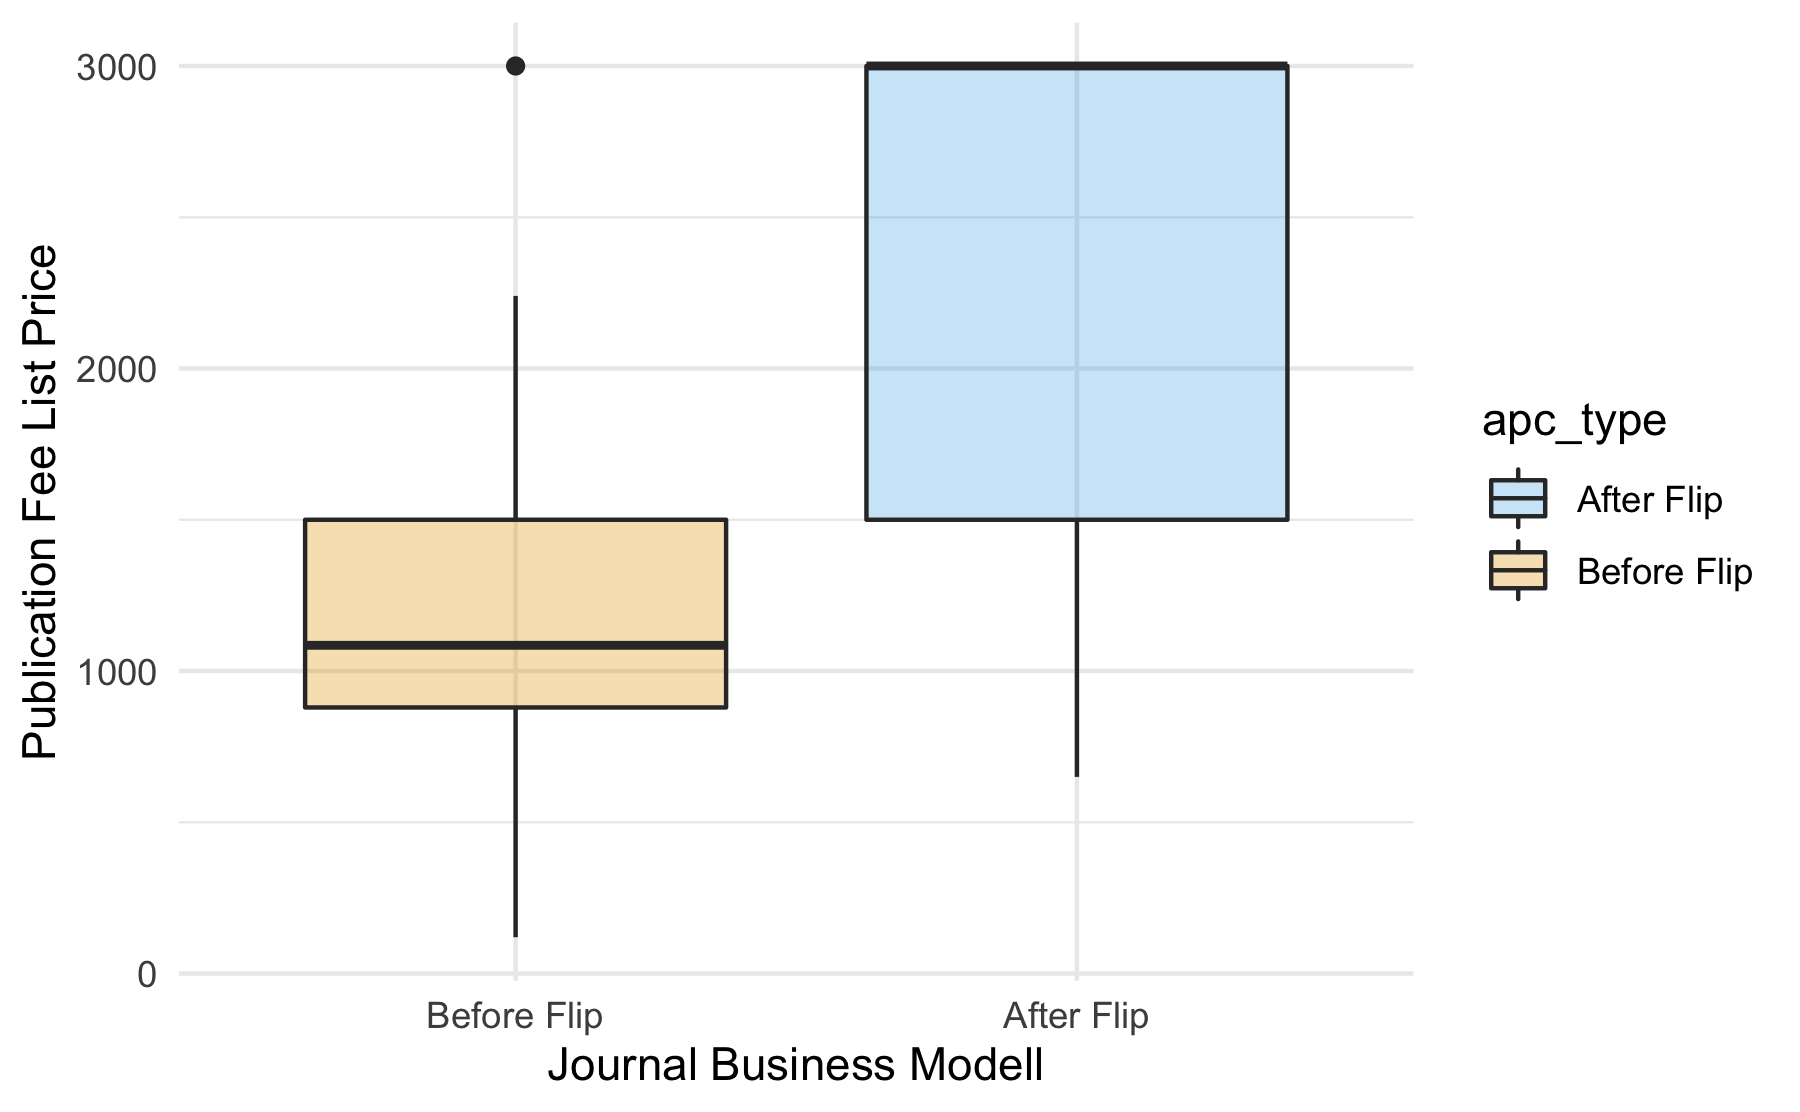
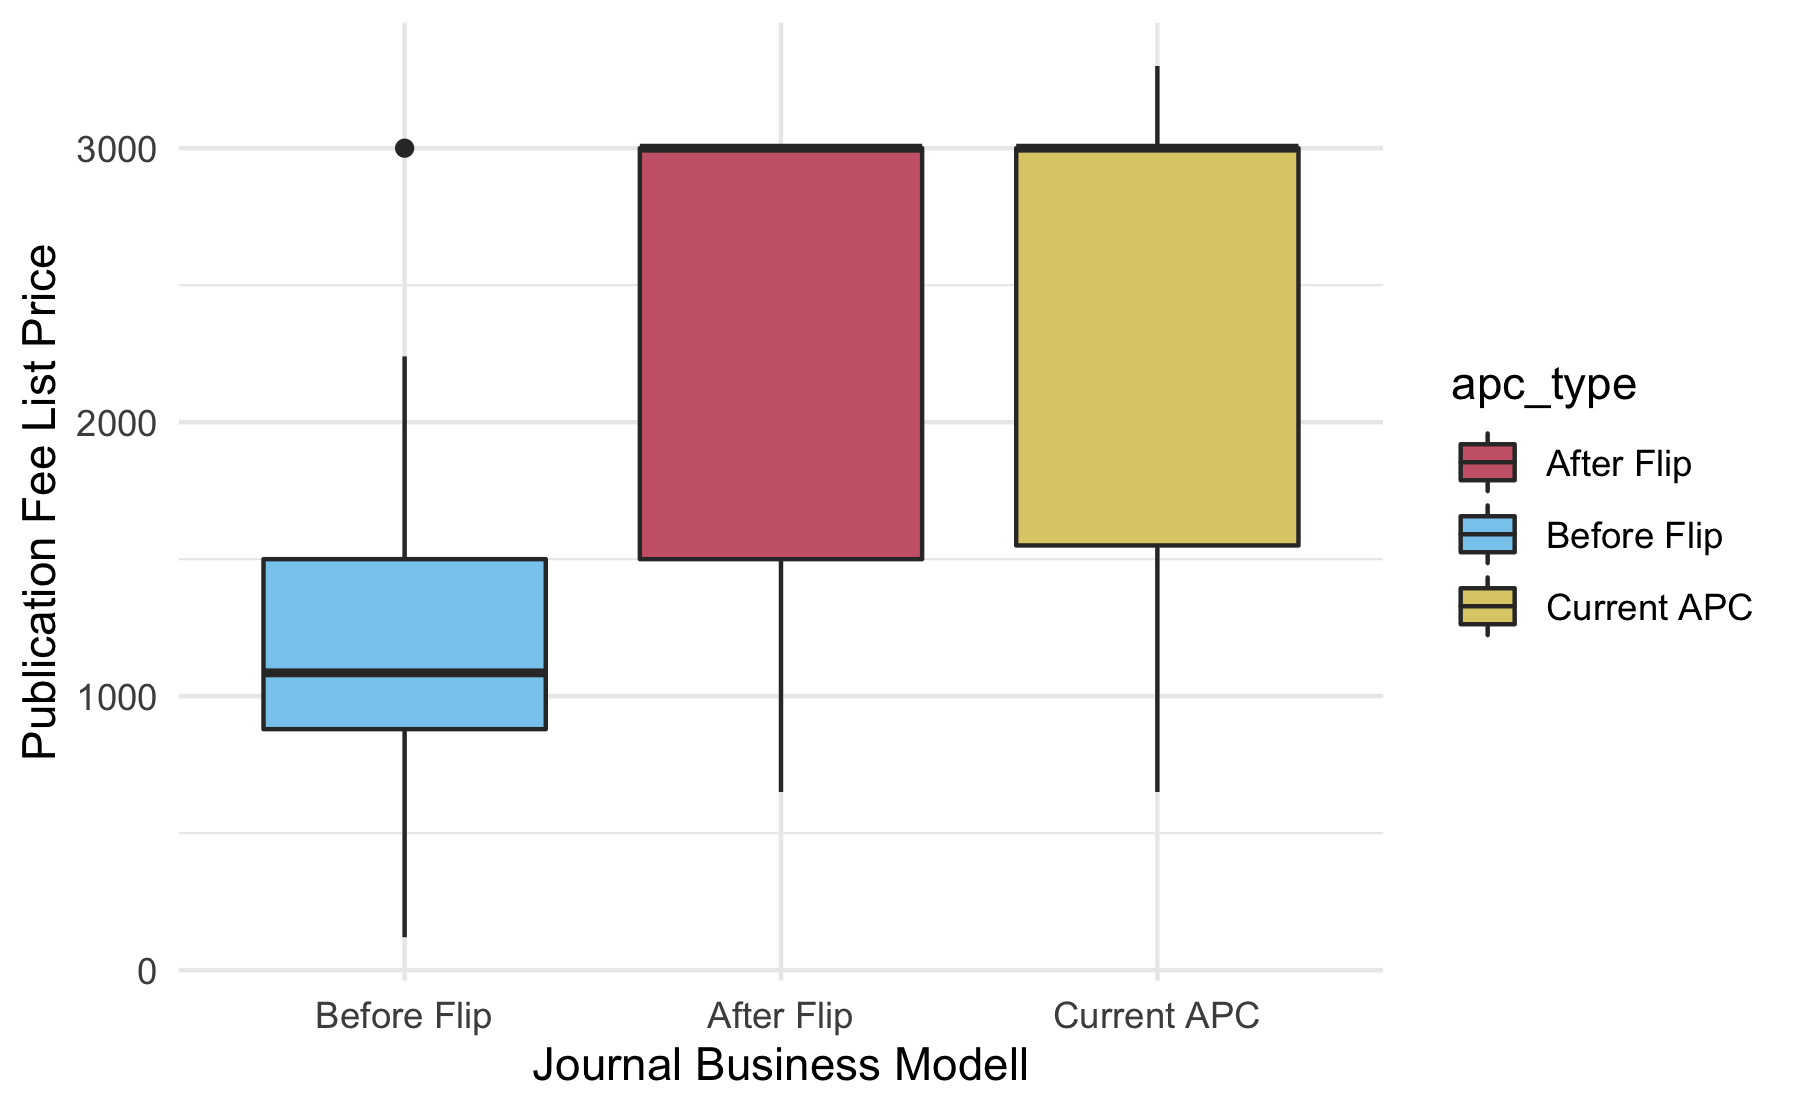
include current apc prices in analysis

diff --git a/results.md b/results.md
@@ -142,7 +142,7 @@ Total                           159       100.00
 
 
 
-We were able to obtain publication fee list prices before and after the flip for 27 journals. Figure compares them with each other, highlighting an considerable increase after the reverse flip.  
+We were able to obtain publication fee list prices before and after the flip including the most recent level in 2018 for 27 journals. Figure compares them with each other, highlighting an considerable increase after the reverse flip.
 
 
-![](results_files/figure-docx/unnamed-chunk-17-1.png)<!-- -->
+![APC list prices before and after the flip including most current level among reverse-flip journals.](results_files/figure-docx/unnamed-chunk-17-1.png)
